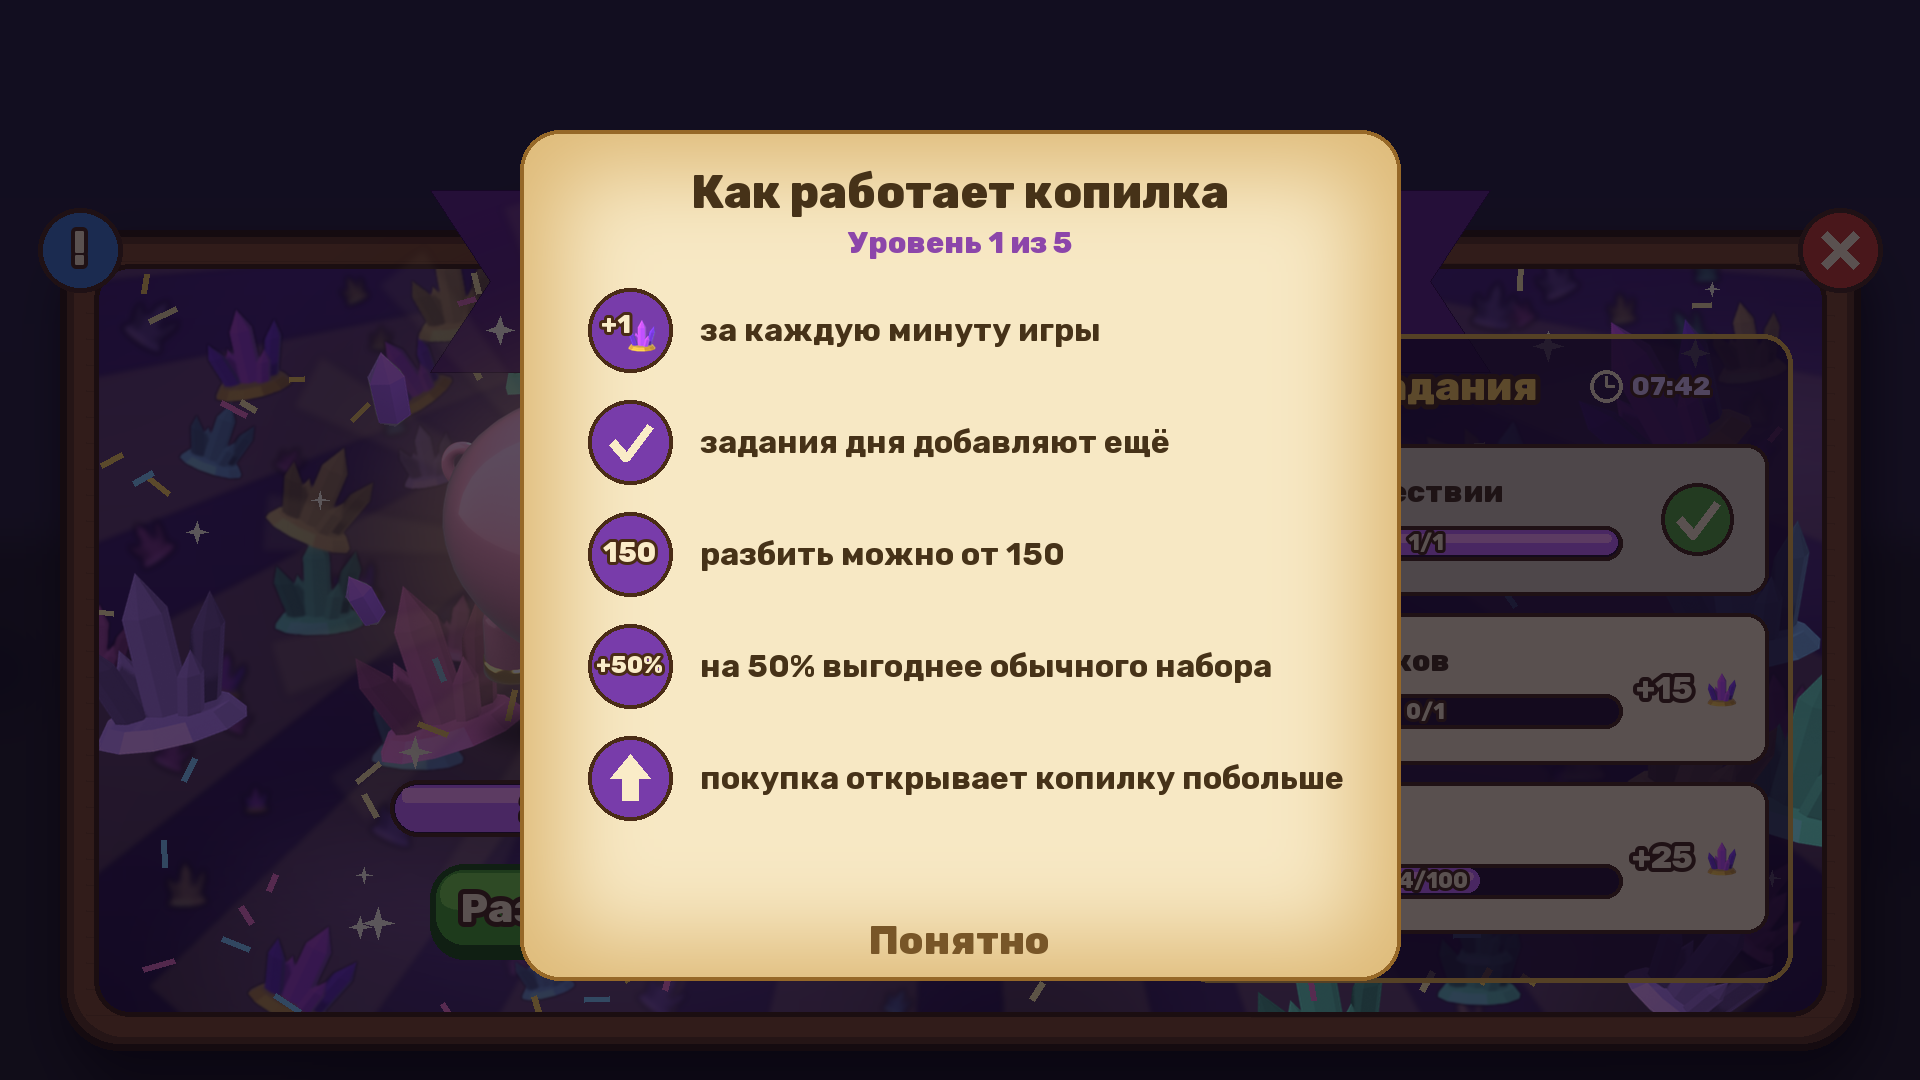
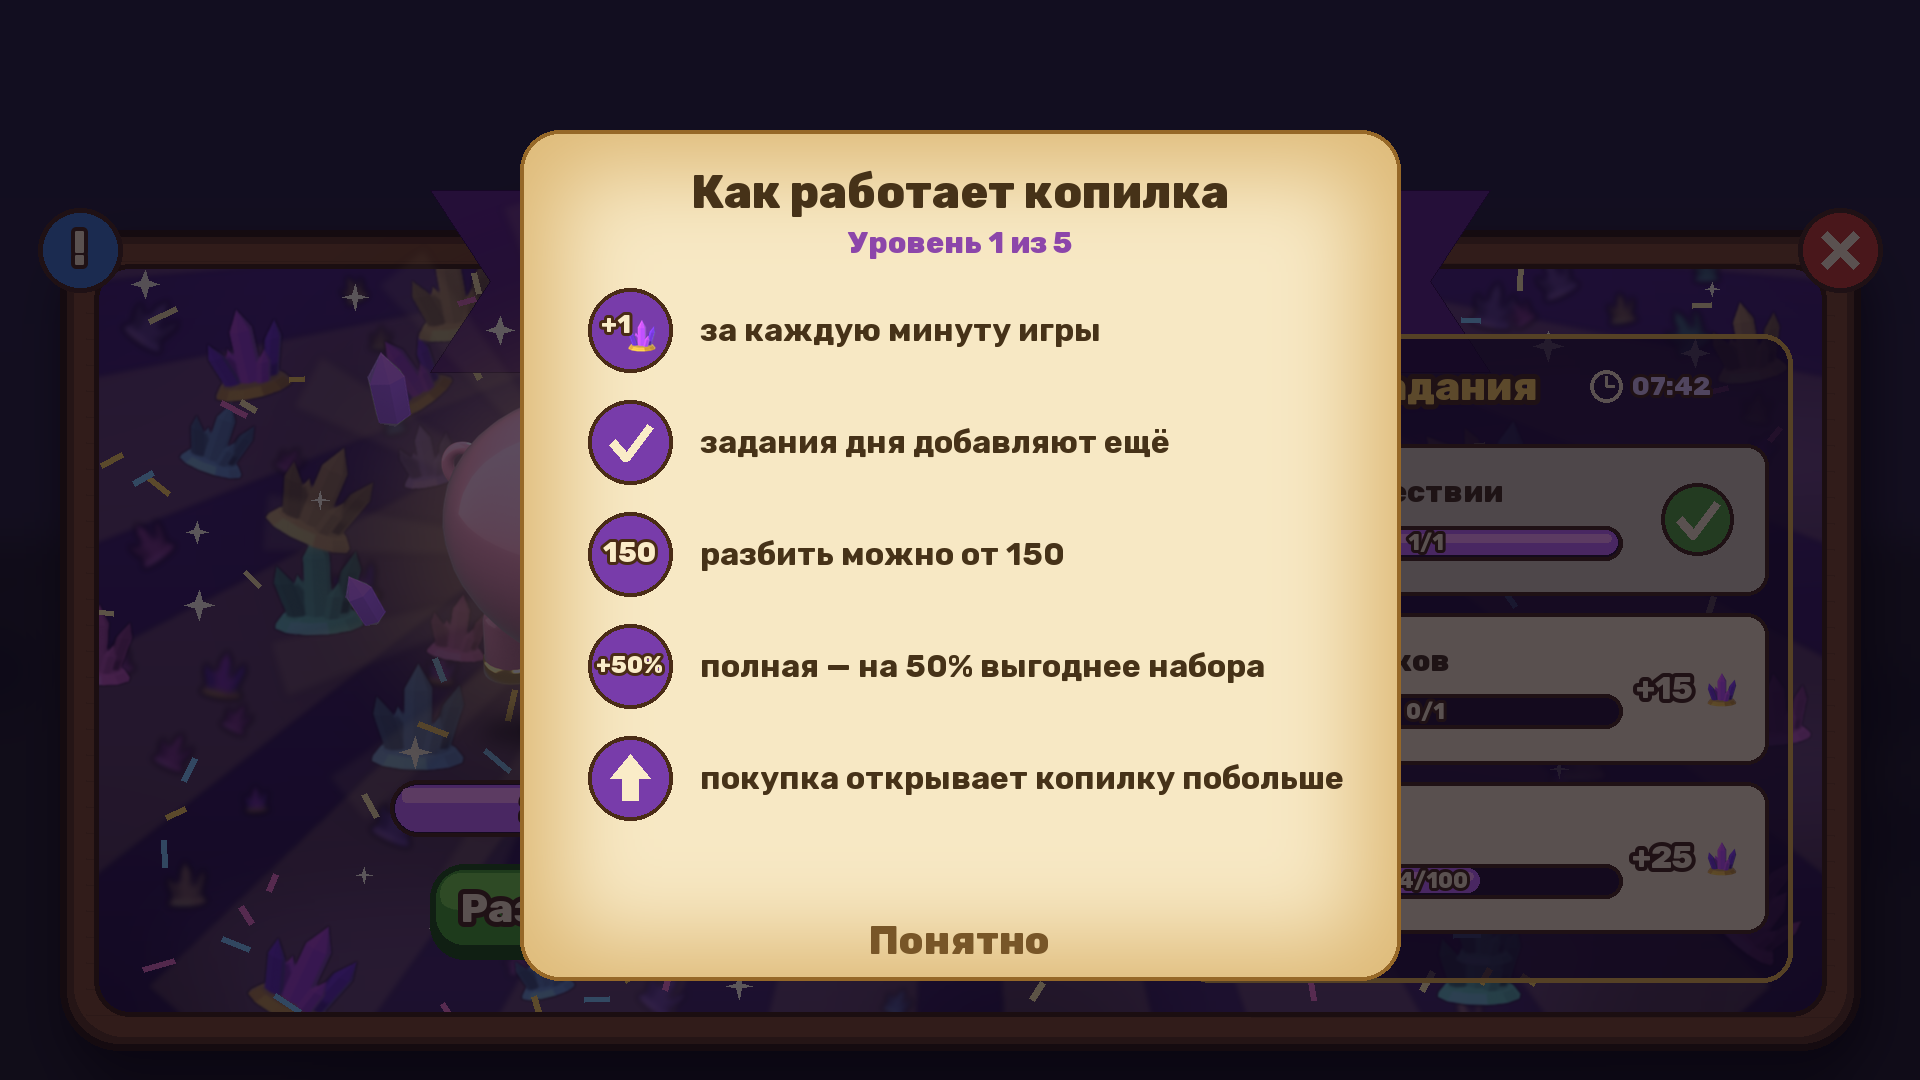
Piggy window: no big front crystals, the badge shows the real gain now (none below break-even)

diff --git a/Tools/store/piggy_window_concept.py b/Tools/store/piggy_window_concept.py
@@ -105,9 +105,13 @@ def pig_column(img, pig, gem, count, cap, full):
     x = cx - (w1 + w2) / 2
     text(d, (x, by - 4), s1, 40, anchor='lm')
     text(d, (x + w1, by - 4), s2, 40, fill=GOLD, anchor='lm')
-    bx, byy = cx + 205, by - 46
-    d.ellipse((bx - 44, byy - 44, bx + 44, byy + 44), fill=(220, 50, 40), outline=INK, width=4)
-    text(d, (bx, byy), '+50%', 26, stroke=3)
+    # the badge shows the REAL gain right now (the user 2026-11-16): a full piggy is +50 % over a regular pack at the
+    # same price, so now it is count/cap * 1.5 - 1; below the break-even (2/3 full) there is no gain -- no badge
+    pct = round((count / cap * 1.5 - 1) * 100)
+    if pct > 0:
+        bx, byy = cx + 205, by - 46
+        d.ellipse((bx - 44, byy - 44, bx + 44, byy + 44), fill=(220, 50, 40), outline=INK, width=4)
+        text(d, (bx, byy), '+%d%%' % pct, 26, stroke=3)
 
 
 def tasks_panel(img, box, full):
@@ -151,7 +155,7 @@ def tasks_panel(img, box, full):
 def window(pig, gem, count, cap, full):
     img = menu_scene()
     img = Image.alpha_composite(img.filter(ImageFilter.GaussianBlur(6)), Image.new('RGBA', (W, H), (14, 6, 30, 190)))
-    win = frame()
+    win = frame(near=False)   # the big front crystals fought the pig (the user 2026-11-16)
     rx0, rx1, ry0, ry1 = 560, 1360, Y0 - 82, IY0 + 66
     win, rib_o = band(win, rx0, rx1, ry0, ry1)
     img = Image.alpha_composite(img, win)
@@ -176,7 +180,7 @@ def info(base):
     text(d, ((x0 + x1) / 2, y0 + 62), 'Как работает копилка', 46, fill=DARK, stroke=0)
     text(d, ((x0 + x1) / 2, y0 + 112), 'Уровень 1 из 5', 30, fill=(140, 70, 170), stroke=0)
     rows = [('+1', 'за каждую минуту игры'), ('✓', 'задания дня добавляют ещё'), ('150', 'разбить можно от 150'),
-            ('%', 'на 50% выгоднее обычного набора'), ('↑', 'покупка открывает копилку побольше')]
+            ('%', 'полная — на 50% выгоднее набора'), ('↑', 'покупка открывает копилку побольше')]
     y = y0 + 200
     for glyph, s in rows:
         cxx = x0 + 110
@@ -206,6 +210,7 @@ def main():
     b = window(pig, gem, 300, 300, True)
     a.convert('RGB').save(R + 'Design/store/Piggy_Window_Concept.png', optimize=True)
     b.convert('RGB').save(R + 'Design/store/Piggy_Window_Full_Concept.png', optimize=True)
+    window(pig, gem, 170, 300, False).convert('RGB').save(R + 'Design/store/Piggy_Window_Low_Concept.png', optimize=True)
     info(a).convert('RGB').save(R + 'Design/store/Piggy_Window_Info_Concept.png', optimize=True)
     print('written Piggy_Window_Concept.png, Piggy_Window_Full_Concept.png, Piggy_Window_Info_Concept.png')
 

diff --git a/Tools/store/support_banner_v2_mockup.py b/Tools/store/support_banner_v2_mockup.py
@@ -43,7 +43,7 @@ def tinted(gem, hue):
     return out
 
 
-def crystal_field(w, h):
+def crystal_field(w, h, near=True):
     """Royal purple, golden rays from the top centre, crystals far (small, blurred) to near (big), confetti."""
     img = Image.new('RGBA', (w, h), 0)
     d = ImageDraw.Draw(img)
@@ -56,7 +56,8 @@ def crystal_field(w, h):
     hues = [(255, 120, 230), (130, 200, 255), (190, 140, 255), (120, 255, 220), (255, 210, 120)]
     gems = [gem] + [tinted(gem, c) for c in hues]
     rnd = random.Random(21)
-    for count, (s0, s1), dim, blur in ((80, (26, 56), 0.45, 3), (36, (64, 110), 0.7, 1.2), (12, (130, 190), 1.0, 0)):
+    depths = ((80, (26, 56), 0.45, 3), (36, (64, 110), 0.7, 1.2), (12, (130, 190), 1.0, 0))
+    for count, (s0, s1), dim, blur in (depths if near else depths[:2]):   # near=False: no big front crystals (piggy window)
         depth = Image.new('RGBA', (w, h), 0)
         for _ in range(count):
             size = rnd.randint(s0, s1)
@@ -94,7 +95,7 @@ def crystal_field(w, h):
     return img
 
 
-def frame():
+def frame(near=True):
     win = layer()
     sh = layer()
     ImageDraw.Draw(sh).rounded_rectangle((X0 + 8, Y0 + 24, X1 + 8, Y1 + 24), 60, fill=(0, 0, 0, 170))
@@ -104,7 +105,7 @@ def frame():
     d.rounded_rectangle((X0 + 14, Y0 + 14, X1 - 14, Y1 - 14), 50, fill=(126, 77, 37))
     for y in range(Y0 + 30, Y1 - 20, 26):
         d.line((X0 + 26, y, X1 - 26, y + 3), fill=(113, 68, 32), width=2)
-    field = crystal_field(IX1 - IX0, IY1 - IY0)
+    field = crystal_field(IX1 - IX0, IY1 - IY0, near)
     mask = Image.new('L', field.size, 0)
     ImageDraw.Draw(mask).rounded_rectangle((0, 0, field.width - 1, field.height - 1), 36, fill=255)
     win.paste(field, (IX0, IY0), mask)

diff --git a/Design/features/piggy-bank.md b/Design/features/piggy-bank.md
@@ -57,11 +57,15 @@ RULE (the user 2026-11-16): v1 had too much text and looked off-putting -- the w
 on; every explanation goes behind the «!» button.
 - Frame of the support banner, ribbon «Копилка», «!» top LEFT corner, ✕ top right.
 - Left: the big pig (its material = the level; no level text/pips), floating crystals, the fill bar «245 / 300 💎»
-  (gold + «Полна!» tag when full), green «Разбить за $0.99» with a small red «+50%» badge; full: the button glows.
+  (gold + «Полна!» tag when full), green «Разбить за $0.99» with a small red badge; full: the button glows.
+- The badge = the REAL gain right now (the user 2026-11-16): price per crystal vs the regular pack, i.e. with a full
+  piggy at +50 %: count/cap*1.5-1 (245/300 -> +23 %); at or below break-even (2/3 full) NO badge. In the game compute
+  it from the real pack price, not the formula. `Piggy_Window_Low_Concept.png` = 170/300, no badge.
+- No big front crystals in the field (they fought the pig; `frame(near=False)`).
 - Right: «Задания» + clock «07:42»; 3 short task cards (name, bar, +N 💎 / a tick when done -- credited by itself);
   full: the rewards go GREY (no warning text). Task names are EXAMPLES, the list is to be discussed.
 - «!» popup (parchment): «Как работает копилка», «Уровень 1 из 5», five icon rows: +1 a minute of play; day tasks add
-  more; break from 150; 50 % better than a regular pack; a purchase opens a bigger piggy; «Понятно».
+  more; break from 150; a FULL one is 50 % better than a pack; a purchase opens a bigger piggy; «Понятно».
 
 ## Levels (APPROVED by the user 2026-11-16, `Design/store/Piggy_Levels_Concept.png`)
 Same royal pig, the material changes: 1 pink ceramic (300), 2 bronze (500), 3 silver (1000), 4 gold (1500),
